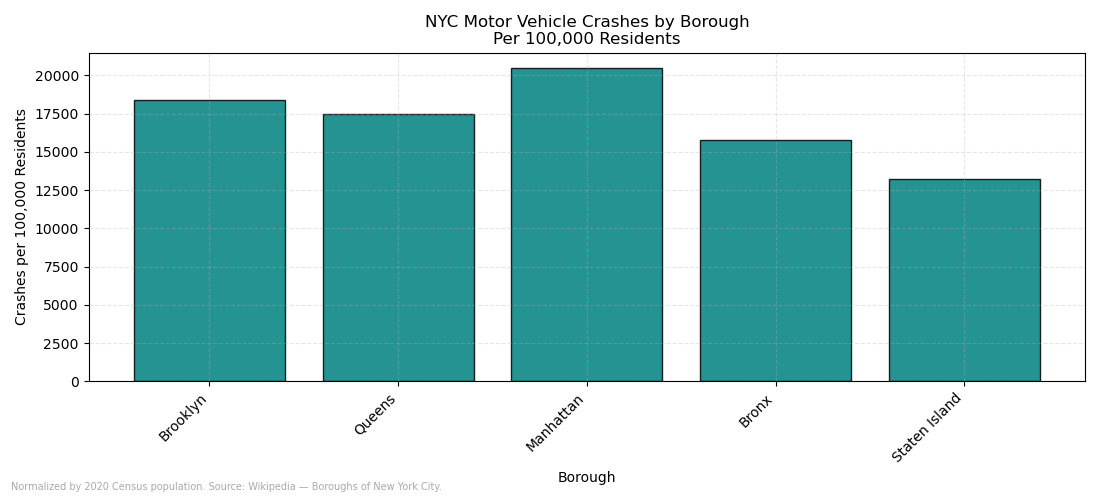
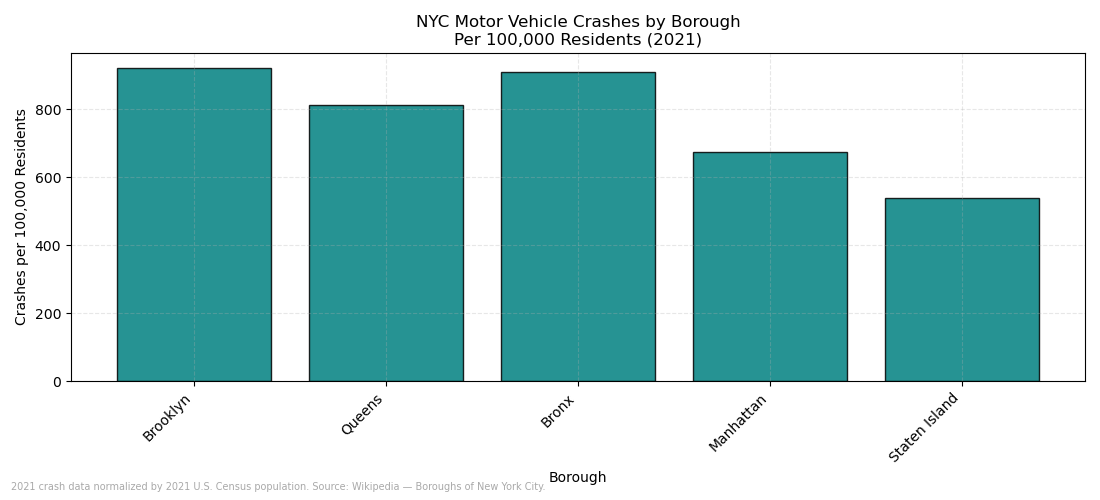
Updated normalized agg to 2021 only.
This better improves accuracy. I would have chosen 2020 (when the census was performed) however I did not want to have COVID-19 impact the data.

diff --git a/vis_code/Agg.py b/vis_code/Agg.py
@@ -15,11 +15,11 @@ BOROUGH_POPULATION = {
 def agg(data):
     """
     Aggregation visualization: Total crash count by NYC borough.
-    Produces two figures — raw counts and population-normalized counts.
+    Produces two figures — raw counts (all years) and population-normalized
+    counts (2020 only, matched to Census population data).
     """
 
-    # ── Data Preparation ────────────────────────────────────────────
-    # Count crashes per borough, drop missing, sort descending
+    # ── Data Preparation: Raw (All Years) ───────────────────────────
     borough_counts = (
         data['BOROUGH']
         .value_counts()
@@ -28,19 +28,28 @@ def agg(data):
         .reset_index(name='CRASH_COUNT')
     )
 
-    # Normalize by population — crashes per 100,000 residents
-    borough_counts['POPULATION'] = borough_counts['BOROUGH'].map(BOROUGH_POPULATION)
-    borough_counts['CRASHES_PER_100K'] = (
-        borough_counts['CRASH_COUNT'] / borough_counts['POPULATION'] * 100_000
+    # ── Data Preparation: Normalized (2021 Only) ─────────────────────
+    # Filter to 2021 to match the Census population data
+    borough_2021 = (
+        data[data['YEAR'] == 2021]['BOROUGH']
+        .value_counts()
+        .dropna()
+        .rename_axis('BOROUGH')
+        .reset_index(name='CRASH_COUNT')
+    )
+
+    borough_2021['POPULATION'] = borough_2021['BOROUGH'].map(BOROUGH_POPULATION)
+    borough_2021['CRASHES_PER_100K'] = (
+        borough_2021['CRASH_COUNT'] / borough_2021['POPULATION'] * 100_000
     ).round(1)
 
-    # ── Figure 1: Raw Crash Counts ───────────────────────────────────
+    # ── Figure 1: Raw Crash Counts (All Years) ───────────────────────
     plt.figure(figsize=(11, 5))
 
     plt.bar(borough_counts['BOROUGH'], borough_counts['CRASH_COUNT'],
             color='teal', edgecolor='black', linewidth=1, alpha=0.85)
 
-    plt.title("NYC Motor Vehicle Crashes by Borough\nRaw Count")
+    plt.title("NYC Motor Vehicle Crashes by Borough\nAll Years")
     plt.xlabel("Borough")
     plt.ylabel("Total Crashes")
     plt.xticks(rotation=45, ha='right')
@@ -49,24 +58,24 @@ def agg(data):
                 fontsize=7, color='darkgray')
 
     plt.tight_layout()
-    
+
     plt.savefig('figures/fig4a_aggregate_crashes_by_borough.png')
     print("Figure saved as 'figures/fig4a_aggregate_crashes_by_borough.png'")
 
     webbrowser.open("file://" + os.path.abspath("figures/fig4a_aggregate_crashes_by_borough.png"))
 
-    # ── Figure 2: Normalized by Population ──────────────────────────
+    # ── Figure 2: Normalized by Population (2021 Only) ───────────────
     plt.figure(figsize=(11, 5))
 
-    plt.bar(borough_counts['BOROUGH'], borough_counts['CRASHES_PER_100K'],
+    plt.bar(borough_2021['BOROUGH'], borough_2021['CRASHES_PER_100K'],
             color='teal', edgecolor='black', linewidth=1, alpha=0.85)
 
-    plt.title("NYC Motor Vehicle Crashes by Borough\nPer 100,000 Residents")
+    plt.title("NYC Motor Vehicle Crashes by Borough\nPer 100,000 Residents (2021)")
     plt.xlabel("Borough")
     plt.ylabel("Crashes per 100,000 Residents")
     plt.xticks(rotation=45, ha='right')
     plt.grid(alpha=0.3, linestyle='--')
-    plt.figtext(0.01, 0.02, "Normalized by 2020 Census population. Source: Wikipedia — Boroughs of New York City.",
+    plt.figtext(0.01, 0.02, "2021 crash data normalized by 2021 U.S. Census population. Source: Wikipedia — Boroughs of New York City.",
                 fontsize=7, color='darkgray')
 
     plt.tight_layout()
